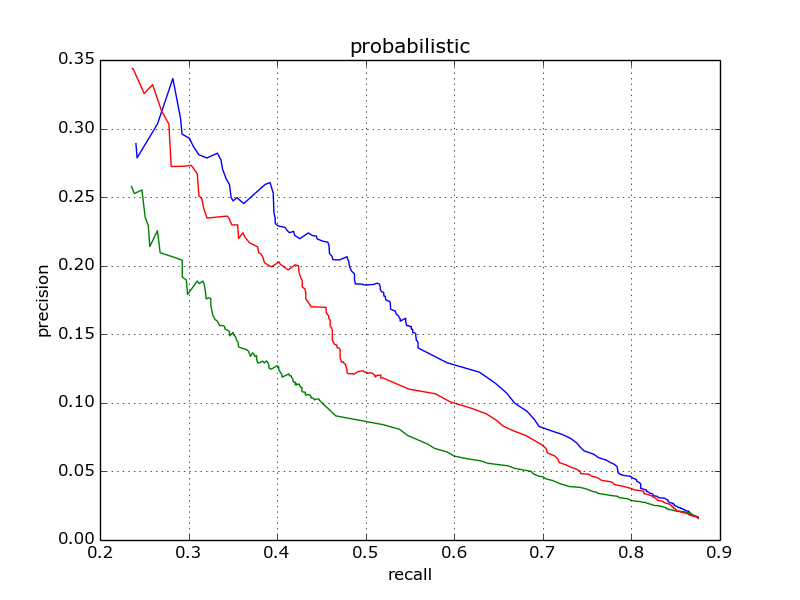
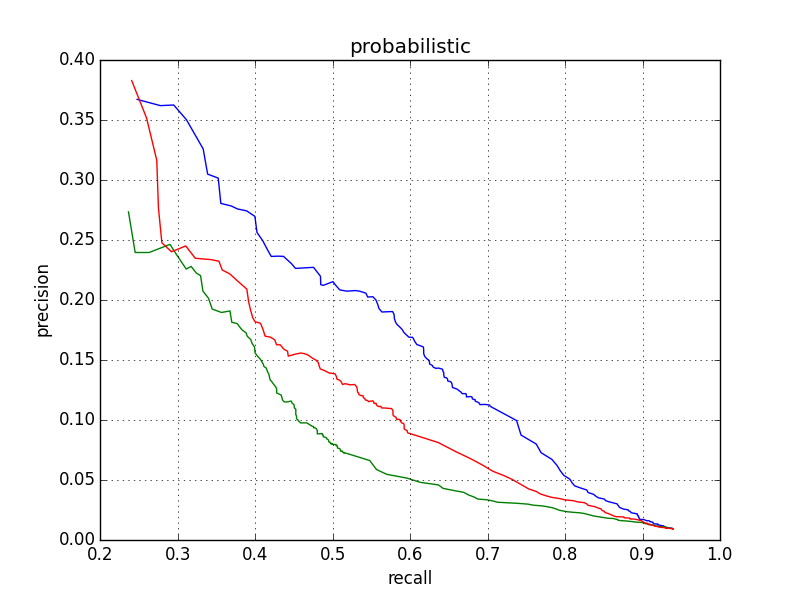
Stemming words with PorterStemmer.

diff --git a/index/clients/statistics/stats_generator.py b/index/clients/statistics/stats_generator.py
@@ -13,7 +13,7 @@ def generate_recall_precision_graph(x_data, y_data, chart_title, output_folder):
     '''
     Generates a graph with x axis labelled as recall and y axis as precision.
     '''
-    plot(x_data, y_data)
+    plot(x_data, y_data, '', label=chart_title)
     xlabel('recall')
     ylabel('precision')
     title(chart_title)
@@ -78,9 +78,8 @@ class StatsGenerator(object):
         queries = self._read_queries()
         expected = self._read_expected_results()
         print('{0} queries found. Each model will run {0} queries.'.format(
-            len(queries),
-            self._iterations*len(queries)
-            ))
+            len(queries)
+        ))
 
         print('Running queries...')
         start_time = time.time()

diff --git a/index/core/utility.py b/index/core/utility.py
@@ -3,7 +3,9 @@ Provides general purpose functions.
 '''
 import re
 from math import log, sqrt
+from nltk import PorterStemmer
 
+_stemmer = PorterStemmer()
 
 def filter_words(word_list, stop_words):
     '''Removes stop_words from word_list'''
@@ -30,8 +32,15 @@ def get_word_list(content):
     '''Gets the list of words in a string'''
     content = re.sub(r'[^\w\s]', ' ', content)
     word_list = split_content(content)
-    word_list = [x.lower() for x in word_list]
+    word_list = [tokenize(x) for x in word_list]
     return word_list
+
+
+def tokenize(word):
+    '''
+    Return the token corresponding to the input word.
+    '''
+    return _stemmer.stem_word(word.lower())
 
 
 def count_tokens(tokens):

diff --git a/index/core/index.py b/index/core/index.py
@@ -4,7 +4,7 @@ Provides the Index class that is able to index a collection
 of documents and can be used to query them.
 '''
 from .document_index import DocumentIndex, StructuredDocument
-from .utility import merge_dictionaries, tf_idf
+from .utility import merge_dictionaries, tf_idf, tokenize
 from .constants import FILE, WORDS, START, END
 
 
@@ -25,7 +25,7 @@ class Index:
 
     def search(self, word):
         '''Returns a list of doc_ids containing the requested word.'''
-        standardized_word = word.lower()
+        standardized_word = tokenize(word)
         return self._inverted_index[standardized_word] \
             if standardized_word in self._inverted_index else {}
 

diff --git a/index/core/constants.py b/index/core/constants.py
@@ -3,11 +3,6 @@ Defines package constants.
 '''
 
 FILE = 'file'
-DOC_ID = 'doc_id'
-COUNT = 'count'
-NORM_COUNT = 'norm_count'
 WORDS = 'words'
-TFIDF = 'tfidf'
-NORM_TFIDF = 'norm_tfidf'
 START = 'start'
 END = 'end'

diff --git a/index/core/document_index.py b/index/core/document_index.py
@@ -3,7 +3,6 @@ Provides classes to index single documents.
 '''
 from .utility import get_word_list, count_tokens, merge_dictionaries, \
     filter_words
-from .constants import COUNT, NORM_COUNT
 import re
 
 
